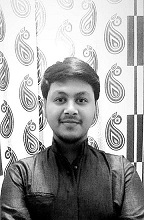
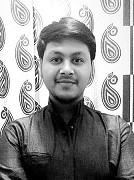
Addd team section

diff --git a/index.html b/index.html
@@ -112,9 +112,9 @@
                
               
 
-                <div class="intro-heading">Start your Opensource Journey</div>
+                <div class="intro-heading">Start your Opensource Journey Now</div>
 
-                <a href="#services" class="page-scroll btn btn-xl animate__pulse"> Explore</a>
+                <a href="#Issues" class="page-scroll btn btn-xl animate__pulse"> Explore</a>
                 <!-- <a href="#services" class="page-scroll btn btn-xl animate__pulse"> Explore</a> -->
             </div>
         </div>
@@ -127,9 +127,7 @@
             <div class="col-sm-12 text-center">
                 <h2 class="section-heading"><i class="fa fa-github" aria-hidden="true"></i> What it means to contribute
                 </h2>
-                <h3 class="section-subheading text-muted">If you’re a new open source contributor, the process can be
-                    intimidating. How do you find the right project? What if you don’t know how to code? What if
-                    something goes wrong?</h3>
+                <h3 class="section-subheading text-muted">Open Source community aimed at encouraging and promoting communication, best practices and technical expertise in an inclusive and welcoming environment.</h3>
             </div>
 
         </div>
@@ -394,7 +392,7 @@
                         </div>
                         <div class="text-center">
                             <img src="https://upload.wikimedia.org/wikipedia/commons/thumb/0/08/GSoC_logo.svg/1200px-GSoC_logo.svg.png"
-                                class="img-responsive prog " alt="">
+                                class="img-responsive prog " height="280px " width="280px" alt="">
                         </div>
                     </a>
                     <div class="portfolio-caption">
@@ -411,7 +409,7 @@
                         </div>
                         <div class="text-center">
                             <img src="https://hacktoberfest.digitalocean.com/_nuxt/img/logo-hacktoberfest-full2.aa1e9d9.svg"
-                                class="img-responsive prog " alt="">
+                                class="img-responsive prog "  height="280px " width="280px" alt="">
                         </div>
                     </a>
                     <div class="portfolio-caption">
@@ -427,7 +425,7 @@
                             </div>
                         </div>
                         <div class="text-center">
-                            <img src="https://i.ytimg.com/vi/kUKgwX4bLyA/maxresdefault.jpg" class="img-responsive prog "
+                            <img src="https://i.ytimg.com/vi/kUKgwX4bLyA/maxresdefault.jpg" class="img-responsive prog " height="280px " width="280px"
                                 alt="">
                         </div>
                     </a>
@@ -445,7 +443,7 @@
                         </div>
                         <div class="text-center">
                             <img src="https://pbs.twimg.com/profile_images/561419803202568194/Pjk5iqNn_400x400.png"
-                                class="img-responsive prog " alt="">
+                                class="img-responsive prog " height="280px " width="280px" alt="">
                         </div>
                     </a>
                     <div class="portfolio-caption">
@@ -462,7 +460,7 @@
                         </div>
                         <div class="text-center">
                             <img src="https://upload.wikimedia.org/wikipedia/commons/thumb/8/8d/KDE_logo.svg/800px-KDE_logo.svg.png"
-                                class="img-responsive prog " alt="">
+                                class="img-responsive prog " height="280px " width="280px" alt="">
                         </div>
                     </a>
                     <div class="portfolio-caption">
@@ -479,7 +477,7 @@
                         </div>
                         <div class="text-center">
                             <img src="https://gssoc.girlscript.tech/images/favicon/favicon.png"
-                                class="img-responsive prog " alt="">
+                                class="img-responsive prog " height="280px " width="280px" alt="">
                         </div>
                     </a>
                     <div class="portfolio-caption">
@@ -512,15 +510,15 @@
             <div class="row">
                 <div class="col-lg-12 text-center">
                     <h2 class="section-heading">Our Amazing Team</h2>
-                    <h3 class="section-subheading text-muted">Lorem ipsum dolor sit amet consectetur.</h3>
+                    <h3 class="section-subheading text-muted"></h3>
                 </div>
             </div>
             <div class="row">
                 <div class="col-sm-4">
                     <div class="team-member team-card">
-                        <img src="img/team/3.jpg" class="img-responsive img-square " alt="">
+                        <img src="img/team/atif.jpeg" class="img-responsive img-square resol " alt="">
                         <h4 style="color:#6A2C70;">Syed Atif</h4>
-                        <p class="text-muted">Lead Developer</p>
+                        <p class="text-muted">DevOps engineer</p>
                         <ul class="list-inline social-buttons">
                             <li><a href="https://twitter.com/syed_atif01" style="background-color:#1d9bf0;"><i class="fa fa-twitter"></i></a>
                             </li>
@@ -535,16 +533,16 @@
                         </ul>
                         <br>
                         <div class="text-center">
-                            <p class="large text-muted">Lorem ipsum dolor sit amet, consectetur adipisicing elit. Aut
-                                eaque,
-                                laboriosam veritatis, quos non quis ad perspiciatis, totam corporis ea, alias ut unde.
+                            <p class="large text-muted"> Responsible for Deployment of the project
+                                using modern tools and Technologies like Docker,
+                                 Kubernetes, Lens and Mirantis on Civo platform and Google Kubernetes Engine
                             </p>
                         </div>
                     </div>
                 </div>
                 <div class="col-sm-4">
                     <div class="team-member team-card">
-                        <img src="img/team/aman.jpg" class="img-responsive img-square " alt="">
+                        <img src="img/team/aman.jpg" class="img-responsive img-square resol " alt="">
                         <h4 style="color:#6A2C70;">Aman Sarraf</h4>
                         <p class="text-muted">Lead Developer</p>
                         <ul class="list-inline social-buttons">
@@ -561,18 +559,17 @@
                         </ul>
                         <br>
                         <div class="text-center">
-                            <p class="large text-muted">Lorem ipsum dolor sit amet, consectetur adipisicing elit. Aut
-                                eaque,
-                                laboriosam veritatis, quos non quis ad perspiciatis, totam corporis ea, alias ut unde.
+                            <p class="large text-muted">Responsible for development part of project.
+                                Skills: Full-stack development ,Symentic web technology,DevOps,C++,JAVA,RDF,SparQL,and Database
                             </p>
                         </div>
                     </div>
                 </div>
                 <div class="col-sm-4">
                     <div class="team-member team-card">
-                        <img src="img/team/3.jpg" class="img-responsive img-square " alt="">
+                        <img src="img/team/Aditya.jpg" class="img-responsive img-square resol " alt="">
                         <h4 style="color:#6A2C70;">Aditya Narayan</h4>
-                        <p class="text-muted">Lead Developer</p>
+                        <p class="text-muted">DevOps Engineer</p>
                         <ul class="list-inline social-buttons">
                             <li><a href="https://twitter.com/AdityaN71677515" style="background-color:#1d9bf0;"><i class="fa fa-twitter"></i></a>
                             </li>
@@ -586,9 +583,10 @@
                         </ul>
                         <br>
                         <div class="text-center">
-                            <p class="large text-muted">Lorem ipsum dolor sit amet, consectetur adipisicing elit. Aut
-                                eaque,
-                                laboriosam veritatis, quos non quis ad perspiciatis, totam corporis ea, alias ut unde.
+                            <p class="large text-muted">
+                                Responsible for Building Connection Between Development and Deployment Part Of this Project.
+
+Skilled In Dynamic Web Devlopement, Docker and  Kubernetes
                             </p>
                         </div>
                     </div>
@@ -608,7 +606,7 @@
             <div class="row">
                 <div class="col-lg-12 text-center" style="color: #af3e75;">
                     <h2 class="section-heading"><i class="fa fa-globe" aria-hidden="true" ></i> Community</h2>
-                    <h3 class="section-subheading text-muted">  </t>You can call for our services any time.</h3>
+                    <h3 class="section-subheading text-muted">  </t></h3>
                 </div>
             </div>
             <div class="row text-center">

diff --git a/CSS/agency.css b/CSS/agency.css
@@ -830,3 +830,7 @@ iframe{
   padding-right: 5px;
 
 }
+.resol
+{
+  height: 300px;
+}
